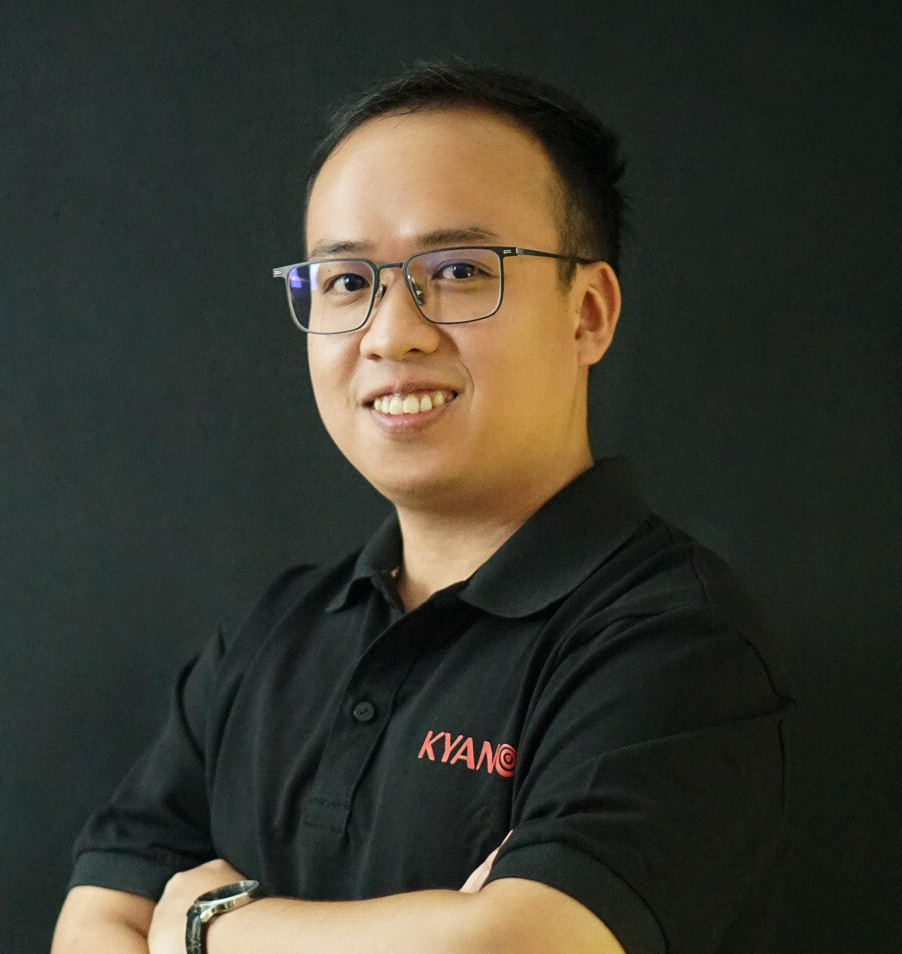
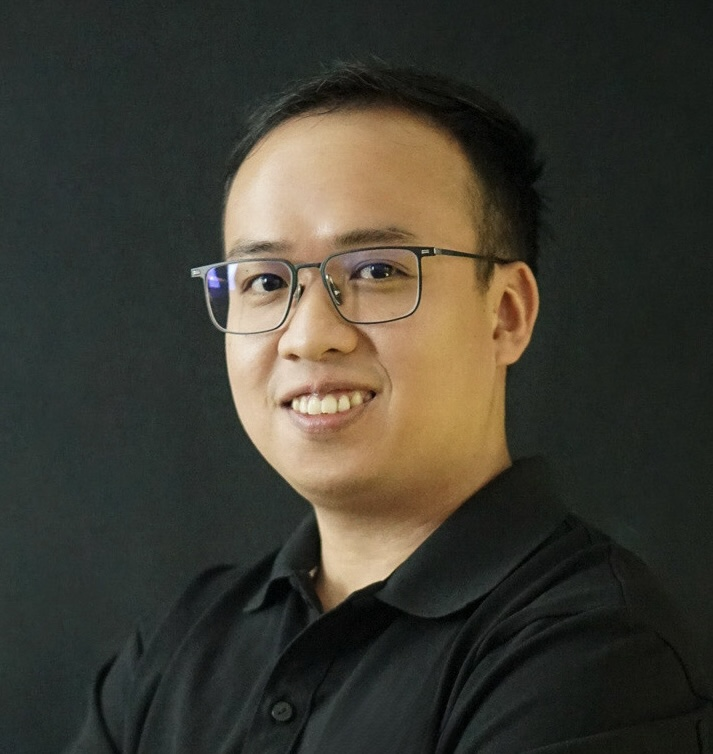
Update bio and img

diff --git a/_pages/about.md b/_pages/about.md
@@ -19,7 +19,7 @@ selected_papers: true # includes a list of papers marked as "selected={true}"
 social: true  # includes social icons at the bottom of the page
 ---
 
-I am currently a PhD student in Computer Science at the Sydney AI Centre, The University of Sydney, supervised by [Prof. Tongliang Liu](https://tongliang-liu.github.io/). Before starting my PhD, I served as the Data & AI Lead at Kyanon Digital. I received my Bachelor's degree in Software Engineering (ranked first in my cohort) from the University of Information Technology, Vietnam National University.
+I am currently a PhD student in Computer Science at the Sydney AI Centre, The University of Sydney, supervised by [Prof. Tongliang Liu](https://tongliang-liu.github.io/). Before starting my PhD, I served as the Data & AI Lead at Kyanon Digital. I received my Bachelor degree in Software Engineering (ranked first in my cohort) from the University of Information Technology, Vietnam National University.
 
 My research focuses on trustworthy and intelligent AI systems, with interests spanning Agentic AI (including autonomous agents and agentic memory), machine learning, learning with noisy labels, and related areas.
 
